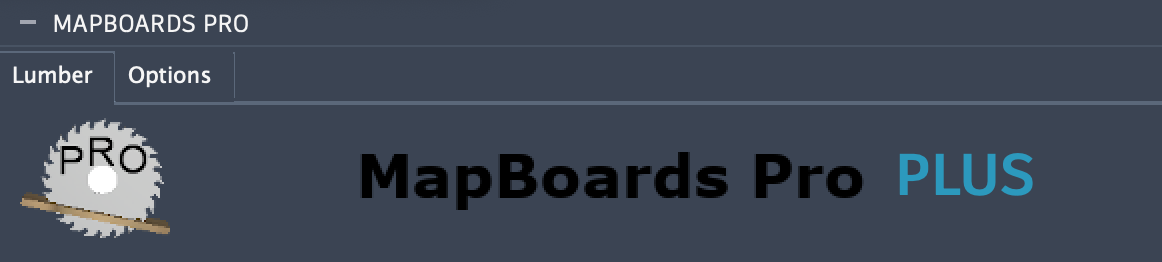
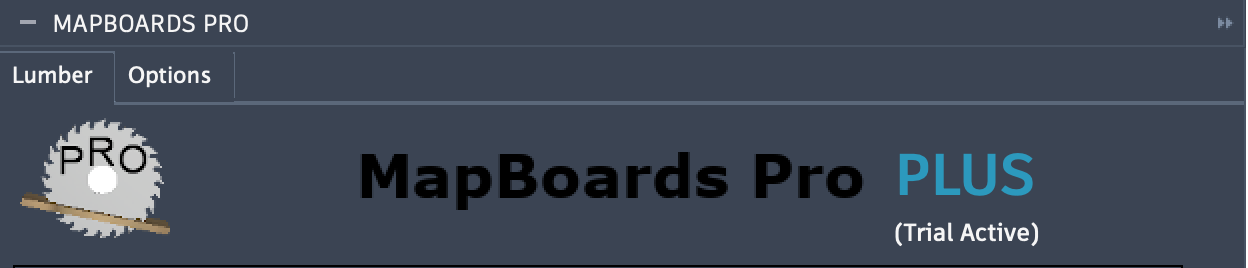
plus features

diff --git a/source/installation/plus_features.rst b/source/installation/plus_features.rst
@@ -1,0 +1,52 @@
+.. _plus_features-label:
+
+.. role:: blue-bold
+
+
+PLUS Features Description
+=========================
+
+MapBoards Pro PLUS features utilize Fusion's advanced native arrange
+capabilities to provide improved material utilization and flexibility
+when mapping boards for users with either the Personal or Commercial
+Fusion 360 entitlement Plans.
+
+The PLUS features :blue-bold:`Arrange with True Shapes` and
+:blue-bold:`Rearrange Boards` are described in the sections below.
+
+
+Arrange with True Shapes
+------------------------
+
+The new Arrangement Type, :blue-bold:`Arrange with True Shapes`, is available
+when mapping boards with MapBoards Pro PLUS features enabled. The full compliment of
+mapping options are available to customize the created board layouts.  In addition,
+the full compliment of post-mapping tasks can be applied to the mapped boards including
+SVG and DXF exports, report generation, manufacturing models, and the new Rearrange 
+Boards. See :ref:`arrange_type-label`.
+
+The image below shows the arrange type options including the :blue-bold:`Arrange with True Shapes`
+option.
+
+.. image:: /_static/images/TrueShapes.png
+    :width: 50%
+
+
+Rearrange Boards
+----------------
+
+The post-mapping task, :blue-bold:`Rearrange Boards`, is available to modify existing
+mapped boards created with any of the arrangement type options.  This provides the
+ability to customize the mapped boards by adjusting component spacing, trim on board
+edges, and component flipping.  If changes prevent all existing components from being
+placed on the boards, the user is notified with the opportunity to adjust the settings
+to achieve a successful rearrangement.
+
+The image below show the Rearrange post-mapping task being invoked.  It list the components
+currently mapped on the boards with their 2D bounding box dimensions. Each listed component
+has the option to flip or prioritize component placement order to help achieve part-in-part
+placements if desired.
+
+.. image:: /_static/images/rearrange_boards.png
+    :width: 30%
+

diff --git a/source/installation/subscription.rst b/source/installation/subscription.rst
@@ -33,39 +33,15 @@ header as shown below:
 If no trial or subscription is active the header will provide a option to start a trial, 
 or subscribe, if the trial has already been used.
 
-Alternatively, if you try to use one of the PLUS features when no trial or subscription
-is active, you will be prompted to start a trial. If confirmed, the trial will be activated 
-for 7 days. When The trial expires your entitlement will revert back to your perpetual license 
+When The trial expires your entitlement will revert back to your perpetual license 
 features of MapBoards Pro.  A subscription is available if you wish to continue using the 
 PLUS features.  You can subscribe by clicking the subscribe link in the Lumber tab header.
+The subscription is $25 for one year.  Clicking the subscribe link will open a dialog
+allowing you to make payment via PayPal.  Once payment is made your PLUS features will be
+enabled for one year.
 
 .. image:: /_static/images/tosubscribe.png
     :width: 50%
 
-PLUS Features:
-==============
 
-- An Arrange Type, Arrange with True Shapes, that uses Fusion's arrange to create a map
-- Rearrange Boards, a post-mapping task that uses Fusion's arrange to rearrange a mapped board
-
-Fusion's arrange will account for the true shapes of components providing full rotation and
-part-in-part for the best possible material utilization. See :ref:`arrange_type-label`
-for details.
-
-The new Arrange Type and the post-mapping task are listed as MBP options as shown in the
-images below.
-
-
-Arrange with True Shapes
-========================
-
-.. image:: /_static/images/TrueShapes.png
-    :width: 50%
-
-
-Rearrange Boards
-=================
-
-.. image:: /_static/images/Rearrange.png
-    :width: 30%
-
+See :ref:`PLUS Features Description <plus_features-label>`

diff --git a/source/installation/index.rst b/source/installation/index.rst
@@ -9,4 +9,5 @@ Installation
     downloads
     installation
     subscription
+    plus_features
 
